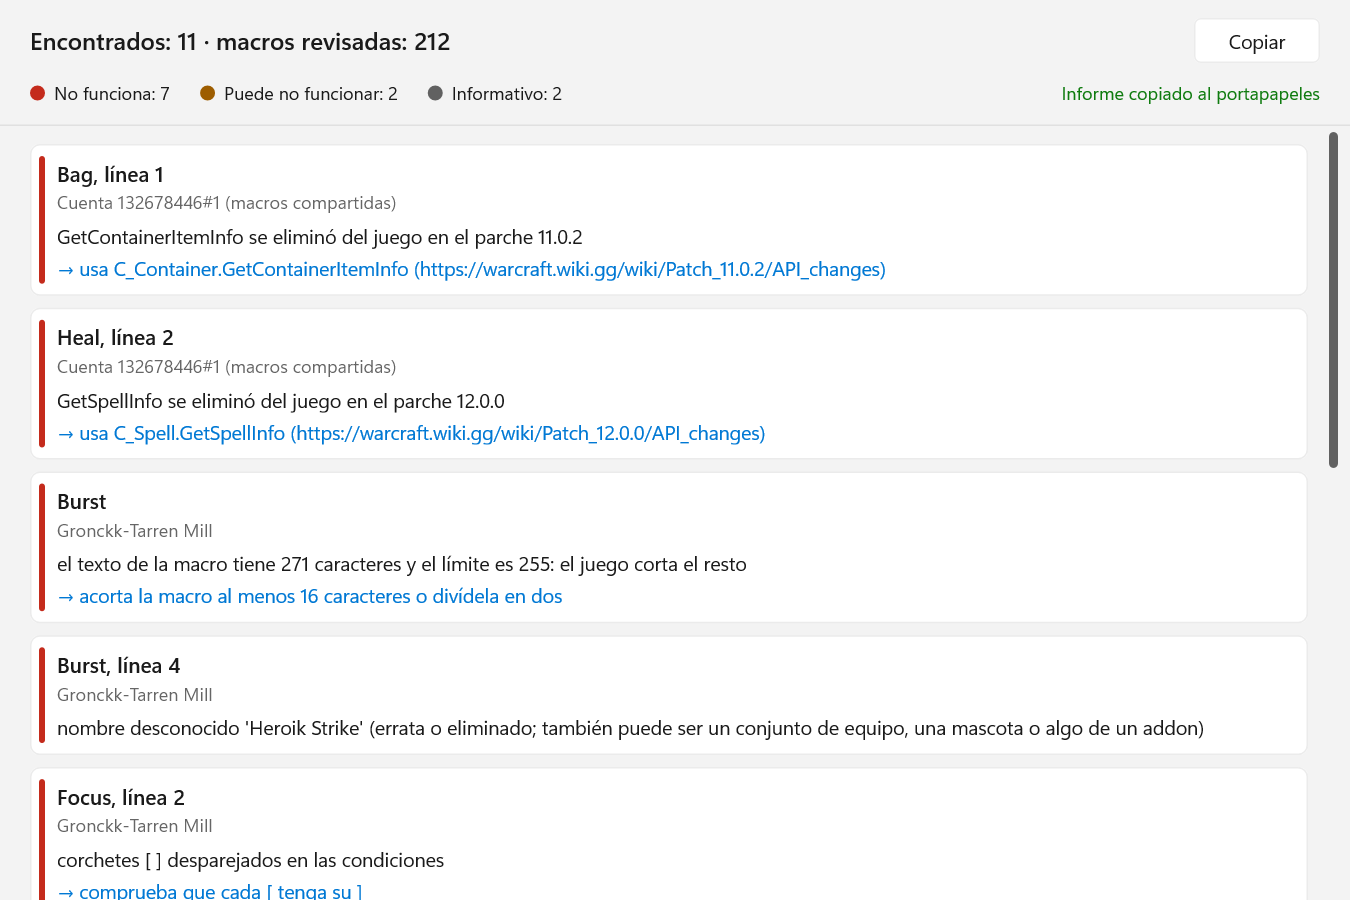
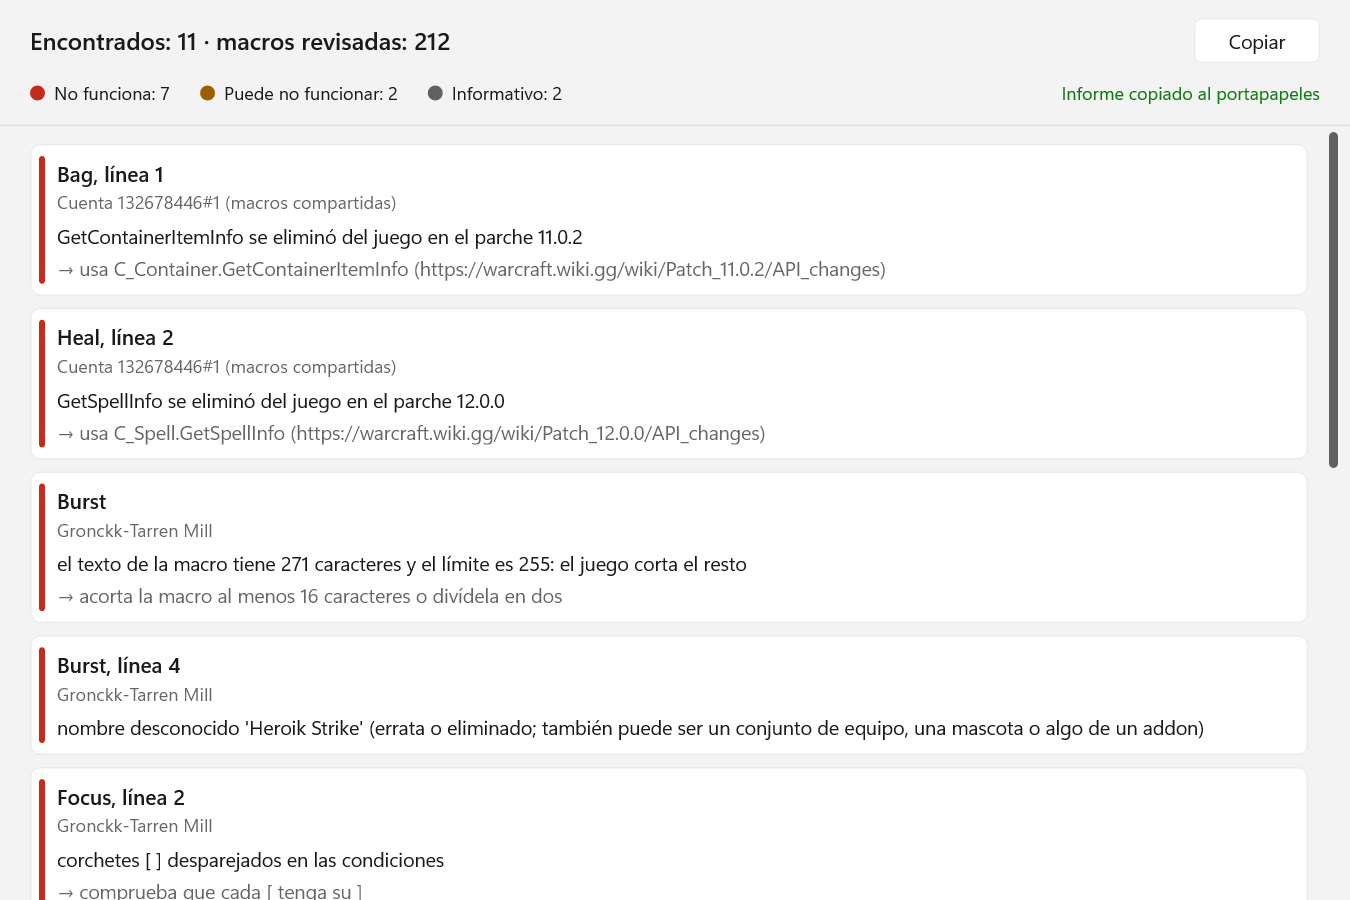
Macro report: capture and DPI fixes, consistent saved position, cheaper refresh, account findings first

diff --git a/src/report.rs b/src/report.rs
@@ -5,6 +5,7 @@
 use std::cell::RefCell;
 use std::mem::{size_of, zeroed};
 use std::ptr::{null, null_mut};
+use std::sync::Arc;
 
 use windows::Win32::Graphics::Direct2D::Common::D2D1_COLOR_F;
 use windows::Win32::Graphics::DirectWrite::IDWriteTextFormat;
@@ -236,7 +237,7 @@ fn draw(p: &Painter, t: &Theme, f: &Formats, check: &MacroCheck, lay: &Layout, s
         line(&c.texts.place, &f.sub, 6.0, t.text2);
         line(&c.texts.problem, &f.body, 4.0, t.text);
         if let Some(fix) = &c.texts.fix {
-            line(fix, &f.body, 0.0, t.accent);
+            line(fix, &f.body, 0.0, t.text2);
         }
     }
     p.offset(0.0, 0.0);
@@ -360,11 +361,12 @@ fn saved_pos() -> Option<(i32, i32, i32, i32)> {
 }
 
 fn save_pos(hwnd: HWND) {
-    let mut wp: WINDOWPLACEMENT = unsafe { zeroed() };
-    wp.length = size_of::<WINDOWPLACEMENT>() as u32;
-    // The restored place, also while the window is minimized or maximized.
-    unsafe { GetWindowPlacement(hwnd, &mut wp) };
-    let r = wp.rcNormalPosition;
+    // Screen coordinates, as `open` restores them; a minimized or maximized window keeps the last normal place.
+    if unsafe { IsIconic(hwnd) != 0 || IsZoomed(hwnd) != 0 } {
+        return;
+    }
+    let mut r: RECT = unsafe { zeroed() };
+    unsafe { GetWindowRect(hwnd, &mut r) };
     if let Err(e) = std::fs::write(pos_file(), format_pos(r.left, r.top, r.right - r.left, r.bottom - r.top)) {
         log::warn!("{}: {e}", pos_file().display());
     }
@@ -443,9 +445,14 @@ fn open() -> gfx::Result<()> {
     let theme = gfx::theme();
     let title = tr!("macros.report_window", app = APP_NAME);
     let fmt = formats()?;
-    let (hwnd, scale) = gfx::create_window("WowToolsMacroReport", &title, Some(wndproc), (W0, H0), &theme, true);
+    let (hwnd, mut scale) = gfx::create_window("WowToolsMacroReport", &title, Some(wndproc), (W0, H0), &theme, true);
     if let Some((x, y, w, h)) = saved_pos() {
-        unsafe { SetWindowPos(hwnd, null_mut(), x, y, w, h, SWP_NOZORDER | SWP_NOACTIVATE) };
+        let place = || unsafe { SetWindowPos(hwnd, null_mut(), x, y, w, h, SWP_NOZORDER | SWP_NOACTIVATE) };
+        place();
+        // On a monitor with another DPI the move changes the window's scale (WM_DPICHANGED came before `WINDOW` was
+        // set); take it, and place again so the remembered pixel size wins over the suggested one.
+        scale = unsafe { GetDpiForWindow(hwnd) } as f32 / 96.0;
+        place();
     }
     let icon = tray::app_icon();
     let check = tray::macro_check();
@@ -475,8 +482,16 @@ fn open() -> gfx::Result<()> {
 pub fn refresh() {
     let check = tray::macro_check();
     if let Some(hwnd) = with_window(|w| {
+        // Percent updates of a backup also land here: measure again only for a new scan.
+        let same = match (&w.check.scan, &check.scan) {
+            (Some(a), Some(b)) => Arc::ptr_eq(a, b),
+            (None, None) => true,
+            _ => false,
+        };
         w.check = check;
-        w.relayout();
+        if !same {
+            w.relayout();
+        }
         w.surface.hwnd
     }) {
         unsafe { InvalidateRect(hwnd, null(), 0) };
@@ -586,9 +601,15 @@ unsafe extern "system" fn wndproc(hwnd: HWND, msg: u32, wparam: WPARAM, lparam: 
                     true
                 });
                 if grabbed == Some(true) {
-                    SetCapture(hwnd);
+                    if with_window(|w| w.grab.is_some()) == Some(true) {
+                        SetCapture(hwnd);
+                    }
                     InvalidateRect(hwnd, null(), 0);
                 }
+                0
+            }
+            WM_CAPTURECHANGED => {
+                with_window(|w| w.grab = None);
                 0
             }
             WM_LBUTTONUP => {
@@ -679,6 +700,7 @@ mod tests {
         Finding {
             flavor: "Retail".into(),
             scope: "Acc".into(),
+            account: false,
             name: "Heal".into(),
             line,
             kind,

diff --git a/src/macros.rs b/src/macros.rs
@@ -382,6 +382,8 @@ pub struct Finding {
     pub flavor: String,
     /// "Account X" or "Name-Realm".
     pub scope: String,
+    /// From the account's own macros (listed before its characters').
+    pub account: bool,
     pub name: String,
     pub line: usize,
     pub kind: Kind,
@@ -546,6 +548,7 @@ fn walk(flavors: &[Flavor], names_dir: Option<&Path>) -> Scan {
                     scan.findings.push(Finding {
                         flavor: fl.title(),
                         scope: scope.to_string(),
+                        account: !firm,
                         name: m.name.clone(),
                         line,
                         kind,
@@ -603,7 +606,8 @@ fn walk(flavors: &[Flavor], names_dir: Option<&Path>) -> Scan {
 }
 
 pub fn sort_findings(findings: &mut [Finding]) {
-    findings.sort_by(|a, b| (a.level(), &a.flavor, &a.scope, &a.name, a.line).cmp(&(b.level(), &b.flavor, &b.scope, &b.name, b.line)));
+    let key = |f: &Finding| (f.level(), f.flavor.clone(), !f.account, f.scope.clone(), f.name.clone(), f.line);
+    findings.sort_by_key(key);
 }
 
 pub fn report(scan: &Scan) -> String {
@@ -991,6 +995,7 @@ mod tests {
         Finding {
             flavor: "Retail".into(),
             scope: "s".into(),
+            account: false,
             name: "n".into(),
             line: 1,
             kind,
@@ -1095,6 +1100,10 @@ mod tests {
                 at(Kind::Brackets, "Retail", "b"),
                 at(Kind::Brackets, "Era", "s"),
                 at(Kind::Brackets, "Retail", "a"),
+                Finding {
+                    account: true,
+                    ..at(Kind::Brackets, "Retail", "z")
+                },
             ],
             ..Default::default()
         };
@@ -1105,6 +1114,7 @@ mod tests {
             heads,
             [
                 format!("[{broken}] Era / s"),
+                format!("[{broken}] Retail / z"),
                 format!("[{broken}] Retail / a"),
                 format!("[{broken}] Retail / b"),
                 format!("[{warn}] Era / s")
@@ -1117,6 +1127,7 @@ mod tests {
         let f = |kind| Finding {
             flavor: "Retail".into(),
             scope: "s".into(),
+            account: false,
             name: "n".into(),
             line: 1,
             kind,

diff --git a/src/main.rs b/src/main.rs
@@ -501,14 +501,15 @@ fn cmd_tray(_: Ctx) -> Result<()> {
 #[cfg(windows)]
 fn demo_macros(view: &str) -> tray::MacroCheck {
     use macros::{Finding, How, Kind};
+    let account = tr!("macros.account", account = "132678446#1");
     let finding = |scope: &str, name: &str, line: usize, kind: Kind| Finding {
         flavor: "Retail".into(),
         scope: scope.into(),
+        account: scope == account,
         name: name.into(),
         line,
         kind,
     };
-    let account = tr!("macros.account", account = "132678446#1");
     let gronckk = "Gronckk-Tarren Mill";
     let findings = vec![
         finding(

diff --git a/src/panel.rs b/src/panel.rs
@@ -3200,6 +3200,7 @@ mod tests {
         Finding {
             flavor: flavor.into(),
             scope: "Acc".into(),
+            account: false,
             name: "Heal".into(),
             line,
             kind,

diff --git a/CLAUDE.md b/CLAUDE.md
@@ -142,7 +142,7 @@ The owner often plays WoW while we work: never screenshot the screen or bring wi
   the tray when there is no file or the monitor is gone, `gfx::monitor_at`). Every header button has a hover tip
   (`panel.*_tip`; `ui-snapshot lock-tip|pin-tip|folder-tip|settings-tip|unlocked`); the new version button drops its
   number for the icon alone when it would run into the title (`pill_label`). `menu.rs`: right-click menu in the same style.
-- `report.rs`: the macro report, a regular resizable window like the settings (`gfx::create_window(.., resizable)`), opened by `Action::OpenMacroReport` (`report::show`: an open one is restored and raised, never a second); `tray` refreshes it with `WM_STATE` (`report::refresh`, `tray::macro_check`) and closes it at exit. A fixed header (`Scan::levels` counters, only levels that occur; "copy" = `Action::CopyMacros`, its result line from `MacroCheck::copied`) over cards scrolled by pixels (wheel, keys, a drawn scroll bar with drag), each finding in full: stripe in the level color (`error` / `warn` / `text2`), "name, line N", where, problem, "-> fix", all wrapped to the width (`layout` measures with `gfx::text_height`, redone on resize and refresh). Size and place go to `datamacro-report-position.txt` ("x y w h", the restored rectangle; used only if its title bar is still on a monitor). `ui-snapshot macro-report` renders it at 900x600 DIPs.
+- `report.rs`: the macro report, a regular resizable window like the settings (`gfx::create_window(.., resizable)`), opened by `Action::OpenMacroReport` (`report::show`: an open one is restored and raised, never a second); `tray` refreshes it with `WM_STATE` (`report::refresh`, `tray::macro_check`) and closes it at exit. A fixed header (`Scan::levels` counters, only levels that occur; "copy" = `Action::CopyMacros`, its result line from `MacroCheck::copied`) over cards scrolled by pixels (wheel, keys, a drawn scroll bar with drag), each finding in full: stripe in the level color (`error` / `warn` / `text2`), "name, line N", where, problem, "-> fix", all wrapped to the width (`layout` measures with `gfx::text_height`, redone on resize and refresh). Size and place go to `data\macro-report-position.txt` ("x y w h", the restored rectangle; used only if its title bar is still on a monitor). `ui-snapshot macro-report` renders it at 900x600 DIPs.
 - `settings.rs`: the settings window (a regular titled window; tabs "Общие" (game, panel tabs, system), "Бэкап", "Аддоны", "Скриншоты" (where the cleanup moves them: folder, date folders, folder per flavor), "О программе" (version and self-update switches, config file, diagnostics) fixed at the
   top, the cards under them scroll when taller than the screen; `fit` sizes the window to the open tab, refit on tab
   switches and on changes that add or remove cards, top edge kept): game folder
